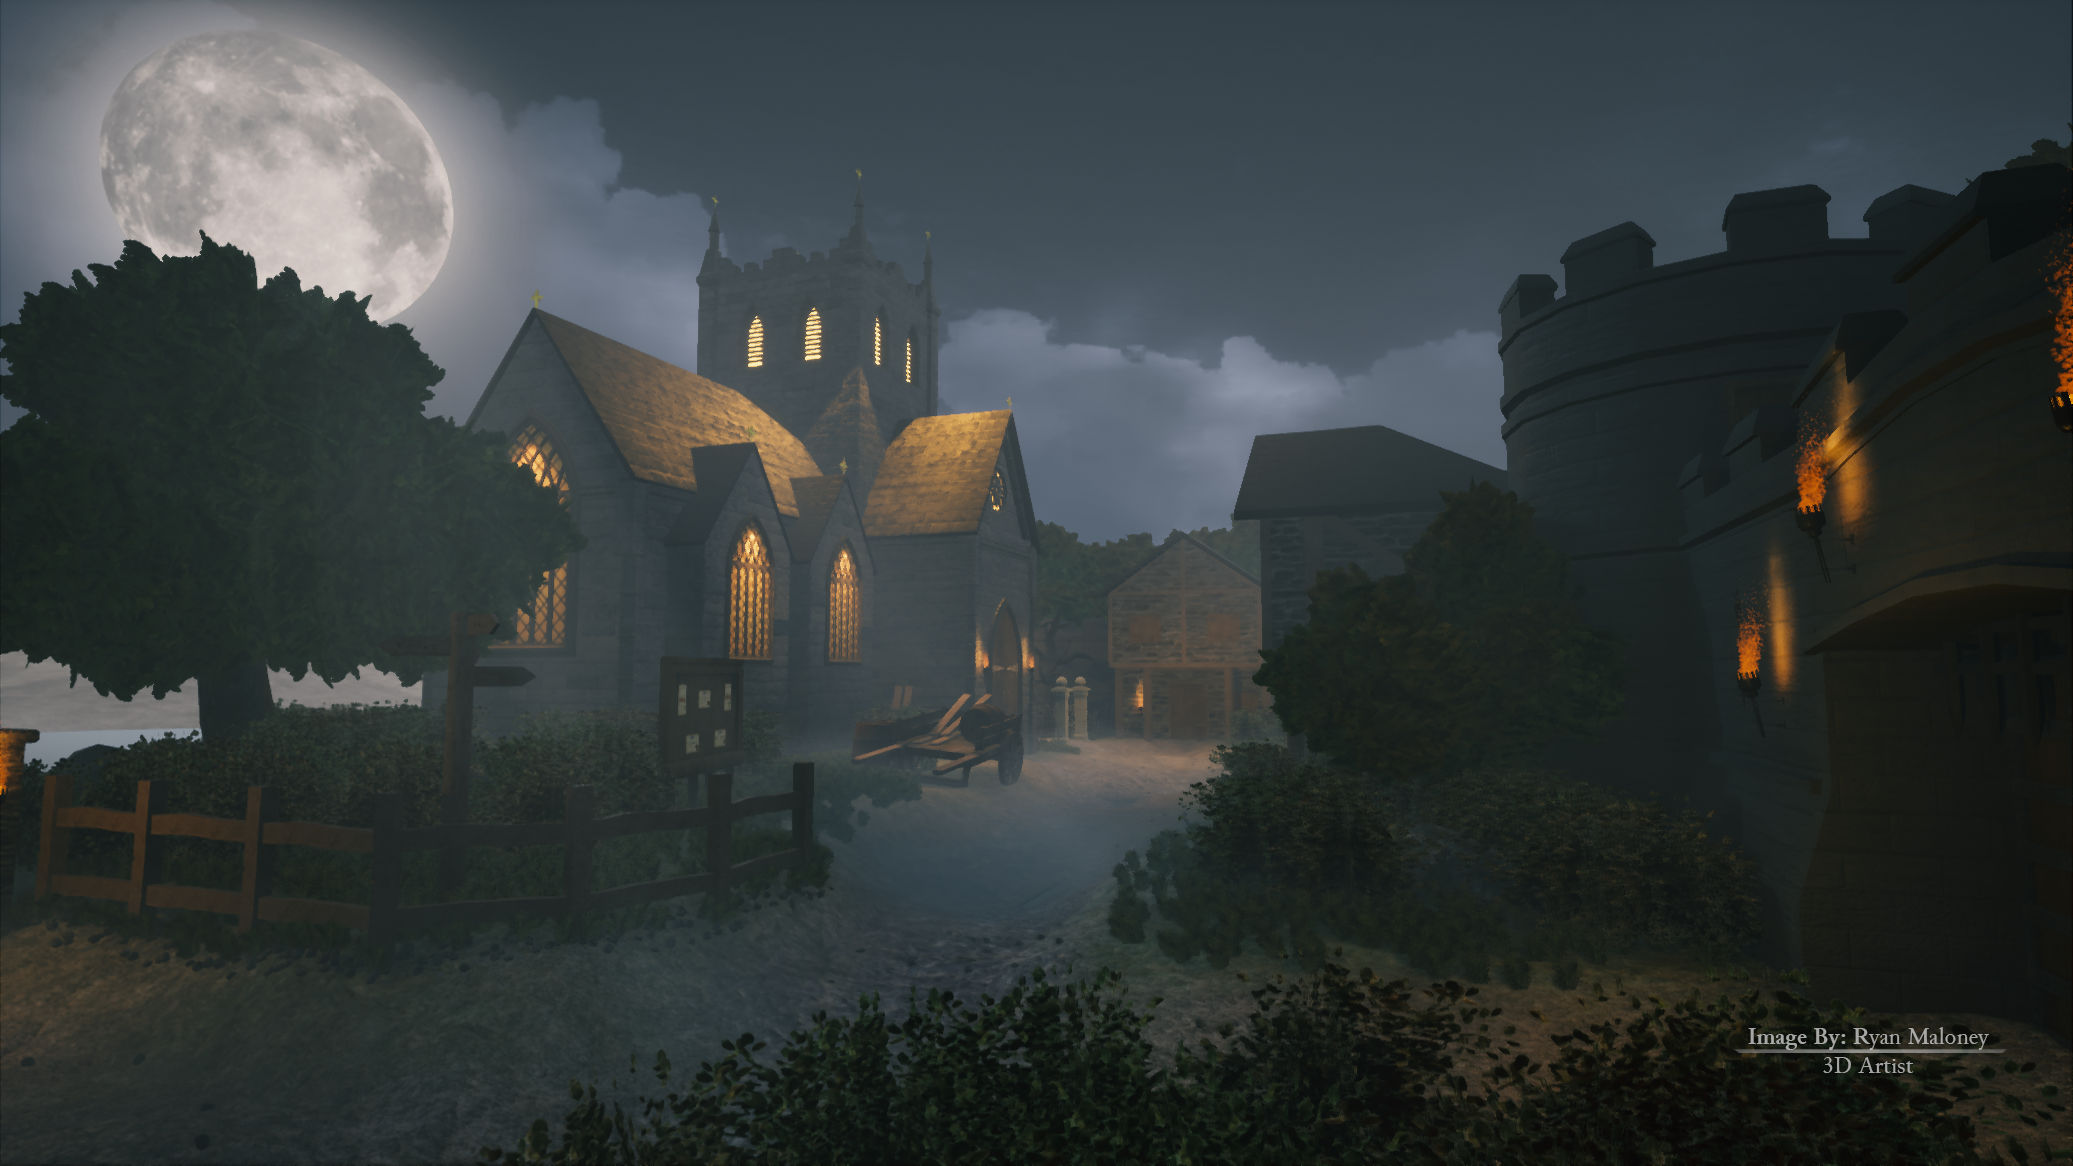
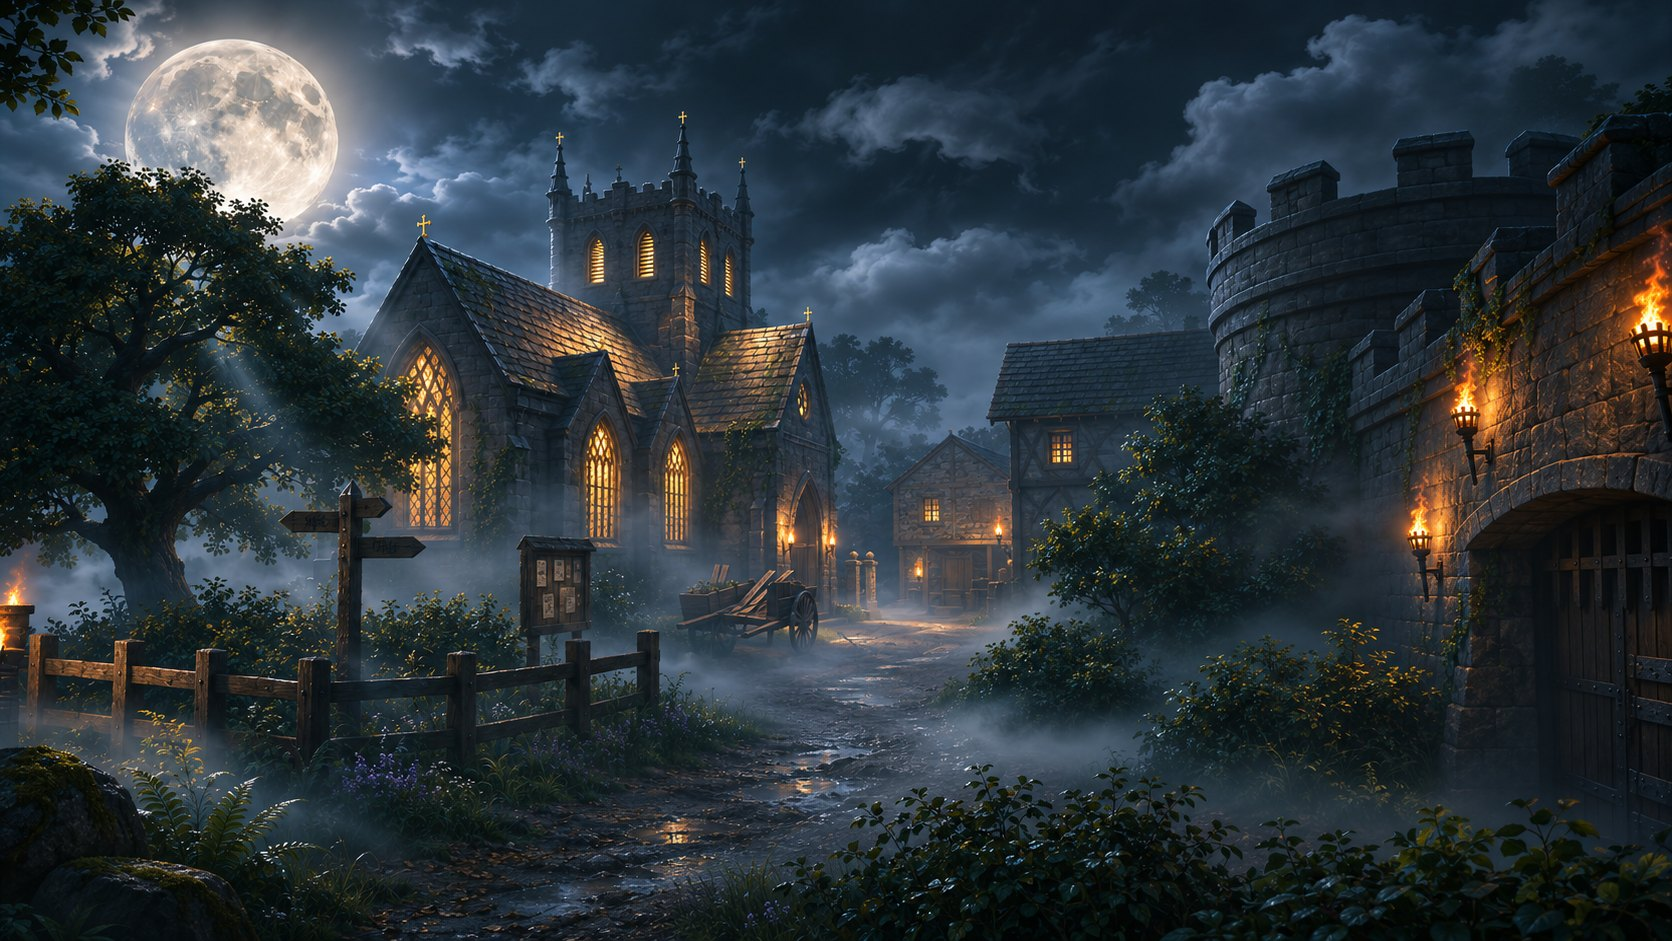
New background and clouds from the owner's artwork
- night village background (also used in the story scenes)
- new cloud layer for the night sky and swamp fog theme
- Settings credit now names the game's own artwork

Claude-Session: https://claude.ai/code/session_0167oXY6ZwbEeBCvj8jYoKrE

diff --git a/src/i18n/en1.js b/src/i18n/en1.js
@@ -394,8 +394,8 @@ export default {
     "To get notifications on iPhone while the game is closed, first tap Share → “Add to Home Screen” in Safari and open the app from there.",
   "📲 Ana ekrana ekle": "📲 Add to home screen",
   "🚪 Odadan çık": "🚪 Leave the room",
-  "Arka plan görseli: Ryan Maloney (3D Artist) · Topluluk yapımı, ücretsiz.":
-    "Background image: Ryan Maloney (3D Artist) · Community made, free.",
+  "Görseller ve logo: Vampir Köylü · darkspire.co":
+    "Artwork and logo: Vampire Village · darkspire.co",
   Ayarlar: "Settings",
   Kapat: "Close",
   Aç: "Turn on",

diff --git a/src/components/Settings.vue b/src/components/Settings.vue
@@ -58,7 +58,7 @@
       </button>
       <button class="btn ghost" @click="$emit('close')">Kapat</button>
       <p class="credit muted">
-        Arka plan görseli: Ryan Maloney (3D Artist) · Topluluk yapımı, ücretsiz.
+        Görseller ve logo: Vampir Köylü · darkspire.co
       </p>
     </div>
     <Profile v-if="profile" @close="profile = false" />
